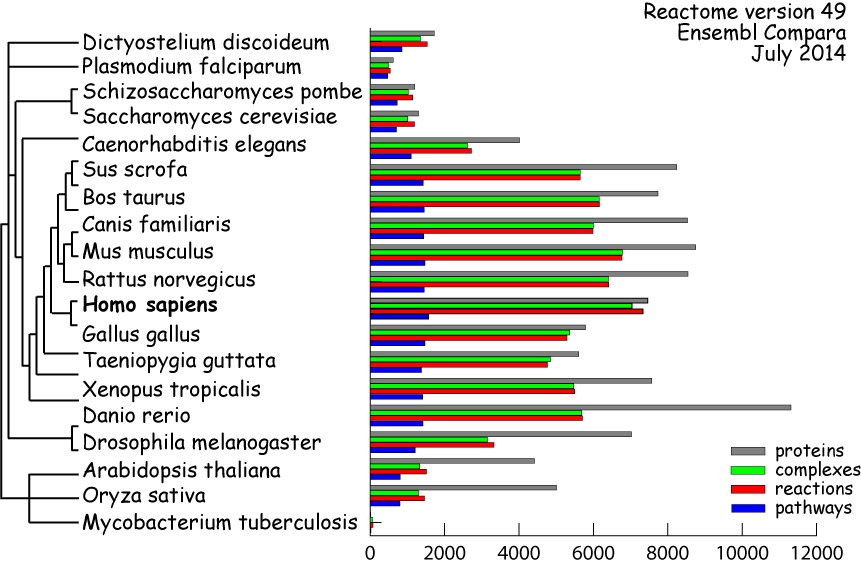
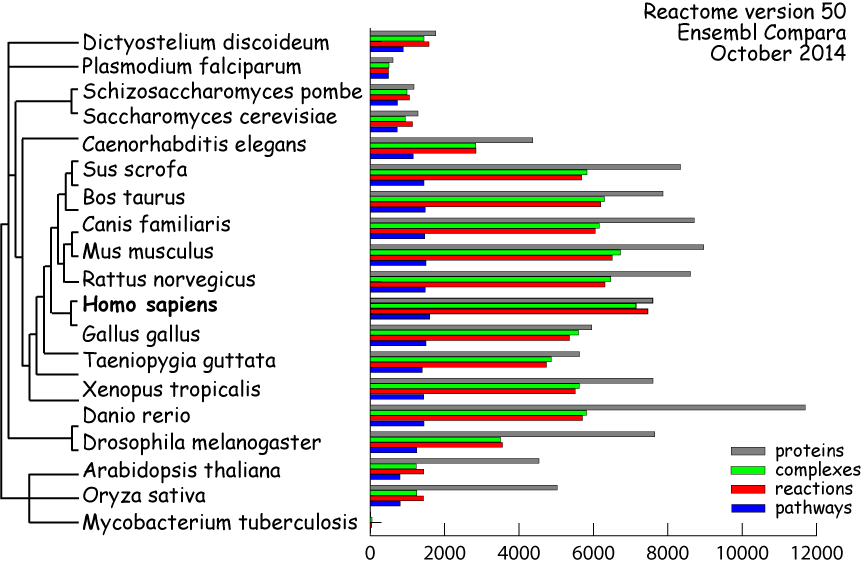
stats update
Former-commit-id: c5ae7f33ed7308d56015541c18afd218a36600bb

diff --git a/scripts/release/website_files_update/stats.html b/scripts/release/website_files_update/stats.html
@@ -9,7 +9,7 @@
 <table    WIDTH="100%" CLASS="contents">
 <tr>
 <td CLASS="summation">
-<h1 CLASS="frontpage">Reactome Statistics (Version 49)</h1>
+<h1 CLASS="frontpage">Reactome Statistics (Version 50)</h1>
 <!-- Start of the stats table  -->
 <table border="0" width="90%" CELLPADDING="0" CELLSPACING="0" CLASS="classbrowser">
 <td valign="top" align="center">
@@ -24,154 +24,154 @@
 
 <tr height=18 class ="own">
 <td heigth=25 class="own">D. discoideum</td>
-	<td class="own" align="center">1724</td>
-	<td class="own" align="center">1349</td>
-	<td class="own" align="center">1536</td>
-	<td class="own" align="center">855</td>
+	<td class="own" align="center">1762</td>
+	<td class="own" align="center">1443</td>
+	<td class="own" align="center">1583</td>
+	<td class="own" align="center">890</td>
 	</tr>
 
 <tr height=18 class ="own">
 <td heigth=25 class="own">P. falciparum</td>
-	<td class="own" align="center">623</td>
-	<td class="own" align="center">489</td>
-	<td class="own" align="center">539</td>
-	<td class="own" align="center">473</td>
+	<td class="own" align="center">612</td>
+	<td class="own" align="center">503</td>
+	<td class="own" align="center">495</td>
+	<td class="own" align="center">491</td>
 	</tr>
 
 <tr height=18 class ="own">
 <td heigth=25 class="own">S. pombe</td>
-	<td class="own" align="center">1201</td>
-	<td class="own" align="center">1023</td>
-	<td class="own" align="center">1145</td>
-	<td class="own" align="center">724</td>
+	<td class="own" align="center">1175</td>
+	<td class="own" align="center">988</td>
+	<td class="own" align="center">1056</td>
+	<td class="own" align="center">734</td>
 	</tr>
 
 <tr height=18 class ="own">
 <td heigth=25 class="own">S. cerevisiae</td>
-	<td class="own" align="center">1300</td>
-	<td class="own" align="center">1008</td>
-	<td class="own" align="center">1192</td>
-	<td class="own" align="center">708</td>
+	<td class="own" align="center">1285</td>
+	<td class="own" align="center">944</td>
+	<td class="own" align="center">1138</td>
+	<td class="own" align="center">730</td>
 	</tr>
 
 <tr height=18 class ="own">
 <td heigth=25 class="own">C. elegans</td>
-	<td class="own" align="center">4012</td>
-	<td class="own" align="center">2614</td>
-	<td class="own" align="center">2720</td>
-	<td class="own" align="center">1105</td>
+	<td class="own" align="center">4368</td>
+	<td class="own" align="center">2836</td>
+	<td class="own" align="center">2843</td>
+	<td class="own" align="center">1157</td>
 	</tr>
 
 <tr height=18 class ="own">
 <td heigth=25 class="own">S. scrofa</td>
-	<td class="own" align="center">8239</td>
-	<td class="own" align="center">5648</td>
-	<td class="own" align="center">5647</td>
-	<td class="own" align="center">1423</td>
+	<td class="own" align="center">8341</td>
+	<td class="own" align="center">5827</td>
+	<td class="own" align="center">5684</td>
+	<td class="own" align="center">1448</td>
 	</tr>
 
 <tr height=18 class ="own">
 <td heigth=25 class="own">B. taurus</td>
-	<td class="own" align="center">7738</td>
-	<td class="own" align="center">6156</td>
-	<td class="own" align="center">6163</td>
-	<td class="own" align="center">1453</td>
+	<td class="own" align="center">7874</td>
+	<td class="own" align="center">6301</td>
+	<td class="own" align="center">6200</td>
+	<td class="own" align="center">1479</td>
 	</tr>
 
 <tr height=18 class ="own">
 <td heigth=25 class="own">C. familiaris</td>
-	<td class="own" align="center">8528</td>
-	<td class="own" align="center">6001</td>
-	<td class="own" align="center">5992</td>
-	<td class="own" align="center">1442</td>
+	<td class="own" align="center">8709</td>
+	<td class="own" align="center">6156</td>
+	<td class="own" align="center">6048</td>
+	<td class="own" align="center">1469</td>
 	</tr>
 
 <tr height=18 class ="own">
 <td heigth=25 class="own">M. musculus</td>
-	<td class="own" align="center">8749</td>
-	<td class="own" align="center">6785</td>
-	<td class="own" align="center">6766</td>
-	<td class="own" align="center">1472</td>
+	<td class="own" align="center">8966</td>
+	<td class="own" align="center">6731</td>
+	<td class="own" align="center">6509</td>
+	<td class="own" align="center">1500</td>
 	</tr>
 
 <tr height=18 class ="own">
 <td heigth=25 class="own">R. norvegicus</td>
-	<td class="own" align="center">8542</td>
-	<td class="own" align="center">6407</td>
-	<td class="own" align="center">6411</td>
-	<td class="own" align="center">1453</td>
+	<td class="own" align="center">8610</td>
+	<td class="own" align="center">6465</td>
+	<td class="own" align="center">6314</td>
+	<td class="own" align="center">1478</td>
 	</tr>
 
 <tr height=18 class ="own">
 <td heigth=25 class="own">*H. sapiens</td>
-	<td class="own" align="center">7460</td>
-	<td class="own" align="center">7041</td>
-	<td class="own" align="center">7332</td>
-	<td class="own" align="center">1567</td>
+	<td class="own" align="center">7597</td>
+	<td class="own" align="center">7145</td>
+	<td class="own" align="center">7462</td>
+	<td class="own" align="center">1597</td>
 	</tr>
 
 <tr height=18 class ="own">
 <td heigth=25 class="own">G. gallus</td>
-	<td class="own" align="center">5789</td>
-	<td class="own" align="center">5364</td>
-	<td class="own" align="center">5291</td>
-	<td class="own" align="center">1475</td>
+	<td class="own" align="center">5957</td>
+	<td class="own" align="center">5601</td>
+	<td class="own" align="center">5355</td>
+	<td class="own" align="center">1501</td>
 	</tr>
 
 <tr height=18 class ="own">
 <td heigth=25 class="own">T. guttata</td>
-	<td class="own" align="center">5603</td>
-	<td class="own" align="center">4848</td>
-	<td class="own" align="center">4763</td>
-	<td class="own" align="center">1376</td>
+	<td class="own" align="center">5628</td>
+	<td class="own" align="center">4870</td>
+	<td class="own" align="center">4741</td>
+	<td class="own" align="center">1396</td>
 	</tr>
 
 <tr height=18 class ="own">
 <td heigth=25 class="own">X. tropicalis</td>
-	<td class="own" align="center">7567</td>
-	<td class="own" align="center">5474</td>
-	<td class="own" align="center">5501</td>
-	<td class="own" align="center">1411</td>
+	<td class="own" align="center">7603</td>
+	<td class="own" align="center">5623</td>
+	<td class="own" align="center">5510</td>
+	<td class="own" align="center">1438</td>
 	</tr>
 
 <tr height=18 class ="own">
 <td heigth=25 class="own">D. rerio</td>
-	<td class="own" align="center">11315</td>
-	<td class="own" align="center">5686</td>
+	<td class="own" align="center">11697</td>
+	<td class="own" align="center">5817</td>
 	<td class="own" align="center">5707</td>
-	<td class="own" align="center">1421</td>
+	<td class="own" align="center">1446</td>
 	</tr>
 
 <tr height=18 class ="own">
 <td heigth=25 class="own">D. melanogaster</td>
-	<td class="own" align="center">7024</td>
-	<td class="own" align="center">3156</td>
-	<td class="own" align="center">3331</td>
-	<td class="own" align="center">1213</td>
+	<td class="own" align="center">7649</td>
+	<td class="own" align="center">3500</td>
+	<td class="own" align="center">3559</td>
+	<td class="own" align="center">1252</td>
 	</tr>
 
 <tr height=18 class ="own">
 <td heigth=25 class="own">A. thaliana</td>
-	<td class="own" align="center">4414</td>
-	<td class="own" align="center">1330</td>
-	<td class="own" align="center">1515</td>
-	<td class="own" align="center">809</td>
+	<td class="own" align="center">4535</td>
+	<td class="own" align="center">1240</td>
+	<td class="own" align="center">1437</td>
+	<td class="own" align="center">801</td>
 	</tr>
 
 <tr height=18 class ="own">
 <td heigth=25 class="own">O. sativa</td>
-	<td class="own" align="center">5007</td>
-	<td class="own" align="center">1298</td>
-	<td class="own" align="center">1459</td>
-	<td class="own" align="center">798</td>
+	<td class="own" align="center">5028</td>
+	<td class="own" align="center">1252</td>
+	<td class="own" align="center">1431</td>
+	<td class="own" align="center">810</td>
 	</tr>
 
 <tr height=18 class ="own">
 <td heigth=25 class="own">M. tuberculosis</td>
 	<td class="own" align="center">13</td>
-	<td class="own" align="center">63</td>
-	<td class="own" align="center">77</td>
-	<td class="own" align="center">19</td>
+	<td class="own" align="center">50</td>
+	<td class="own" align="center">40</td>
+	<td class="own" align="center">12</td>
 	</tr>
 
-</table><!-- Close the stat table --><td valign="top" align="justify"><IMG height="400" title="" src="stats.png"><BR><BR><BR></tr>   </td></TABLE> <!-- Close the page table --></table><br><DIV STYLE="font-size:9pt;text-align:left;color:black;padding-top:10px;width=40%">*Reactome annotates to protein isoforms when this information is available.<br>The total number of curated human proteins including isoforms is 7596.<p></DIV><!--#include virtual="/cgi-bin/footer" --></BODY></HTML>
+</table><!-- Close the stat table --><td valign="top" align="justify"><IMG height="400" title="" src="stats.png"><BR><BR><BR></tr>   </td></TABLE> <!-- Close the page table --></table><br><DIV STYLE="font-size:9pt;text-align:left;color:black;padding-top:10px;width=40%">*Reactome annotates to protein isoforms when this information is available.<br>The total number of curated human proteins including isoforms is 7733.<p></DIV><!--#include virtual="/cgi-bin/footer" --></BODY></HTML>
